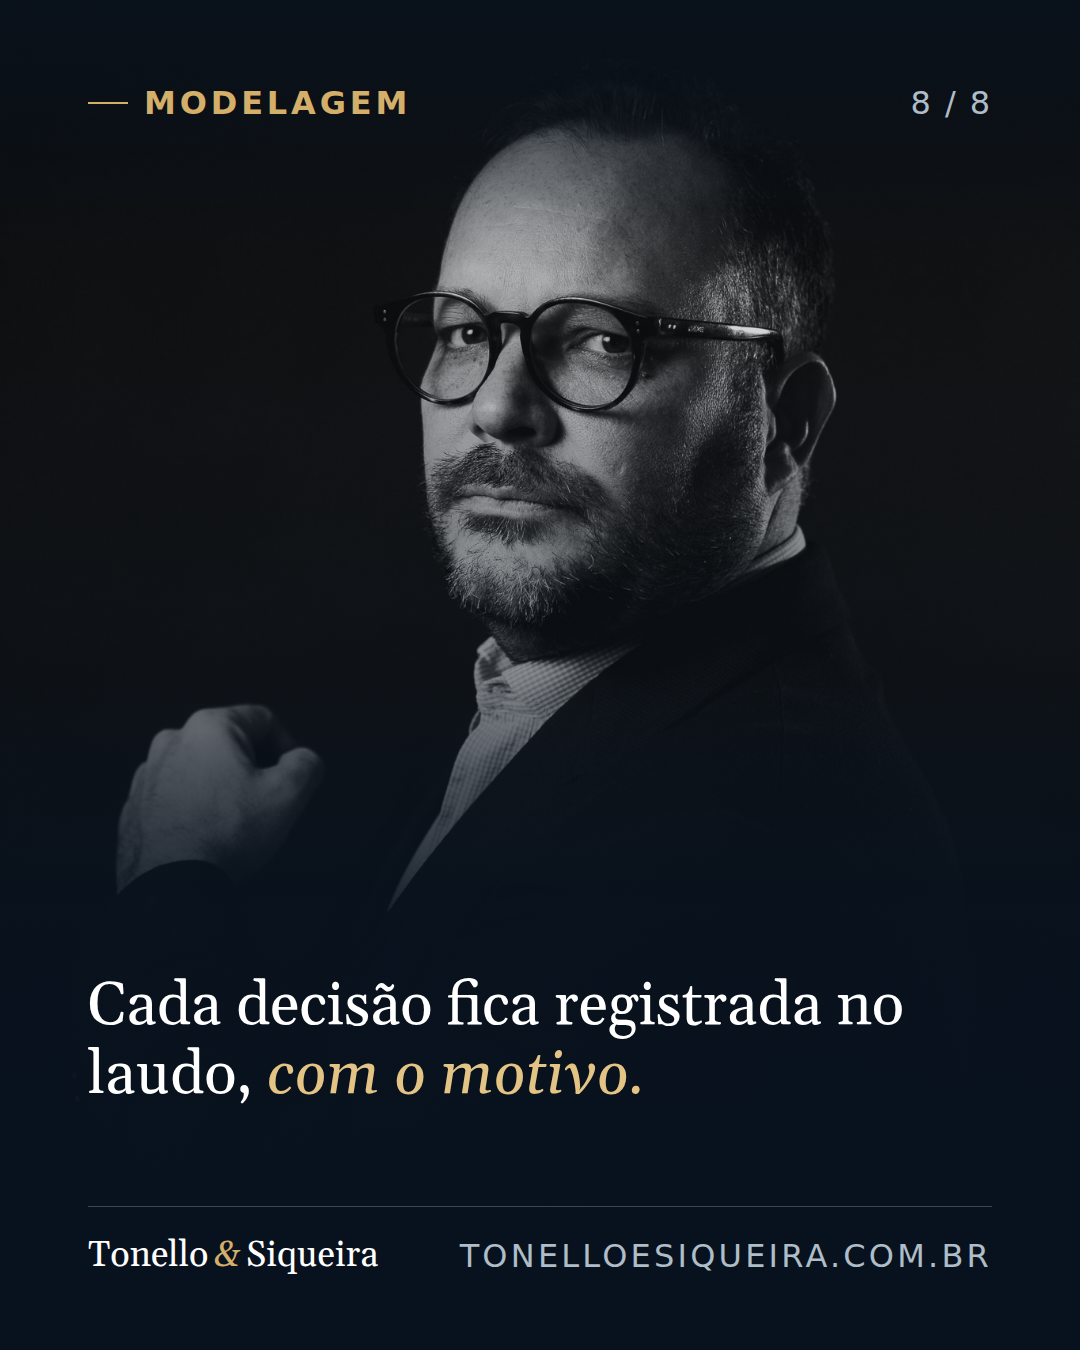
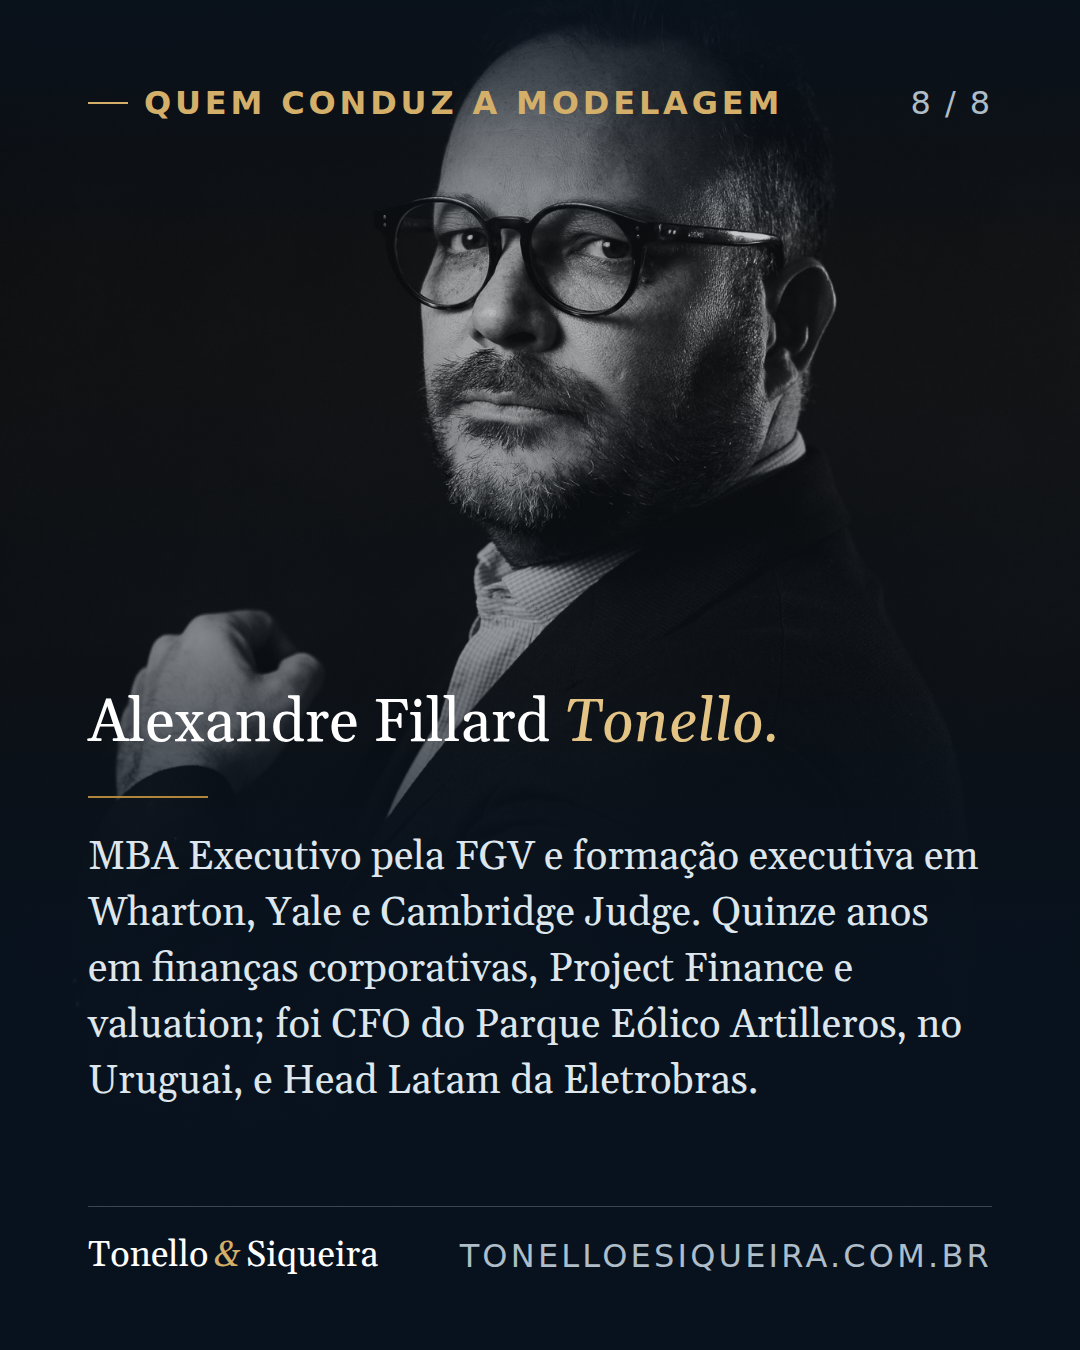
upload 2026.10.15.2

Changed region(s): [[0.0611, 0.0311, 0.9167, 0.8089]]

diff --git a/README.md b/README.md
@@ -34,14 +34,14 @@ Cada pasta de post (Instagram ou LinkedIn) contém:
 | 3 | Instagram | Método — como conduzimos | ter 20/10 | Aprovado — 7 telas, aguarda agendamento |
 | 4 | Instagram | Modelagem — metodologia | sex 23/10 | Aprovado — 8 telas, aguarda agendamento |
 | 5 | Instagram | Caso — a vinícola (anonimizado) | ter 27/10 | Aprovado — 7 telas, aguarda aceite do cliente |
-| 6 | Instagram | Intermediação — a venda | sex 30/10 | — |
+| 6 | Instagram | Intermediação — a venda | sex 30/10 | Aprovado — 8 telas, aguarda agendamento |
 | 7 | Instagram | Para quem vende | ter 03/11 | — |
 | 8 | Instagram | Para quem compra | sex 06/11 | — |
 | 2 | LinkedIn | A Casa — Plataforma x Casa de M&A (publicação + foto) | qua 14/10 | Publicado |
 | 3 | LinkedIn | Método — como conduzimos | qua 21/10 | Pronto — texto + foto |
 | 4 | LinkedIn | Modelagem — metodologia | ter 27/10 | Aprovado — texto técnico (IVS + FAST) + foto |
 | 5 | LinkedIn | Caso — a vinícola (anonimizado) | a definir | Aprovado — texto técnico + foto, aguarda aceite do cliente |
-| 6 | LinkedIn | Intermediação — a venda | 31/10 | — |
+| 6 | LinkedIn | Intermediação — a venda | a definir (31/10 é sábado) | Aprovado — texto técnico + foto |
 
 Instagram: sempre às 10:00 (pico da conta em dias úteis, Metricool). Sem sábados.
 
